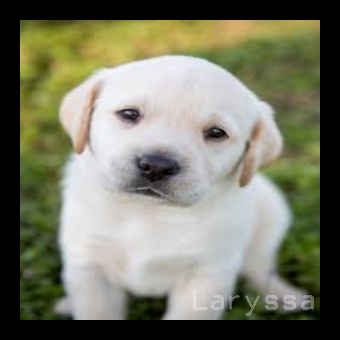
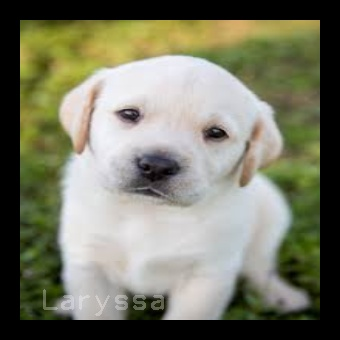
Ajuste marca dagua

diff --git a/slides.py b/slides.py
@@ -18,7 +18,7 @@ def watermark(img,file):
         height, width = img.shape[:2]
         alpha = 0.3
         namestamp = "Laryssa"
-        cv2.putText(overlay, namestamp.format(alpha), (width-150, height-30), cv2.FONT_HERSHEY_PLAIN, 2, (255,255,255), thickness=2)
+        cv2.putText(overlay, namestamp.format(alpha), (width-300, height-30), cv2.FONT_HERSHEY_PLAIN, 2, (255,255,255), thickness=2)
         cv2.addWeighted(overlay, alpha, output, 1 - alpha, 0, output)
         cv2.imwrite("watermark{}".format(file), output)
 
@@ -42,7 +42,7 @@ clean_folder()
 
 while True:
     format_images()
-    for file in glob.glob('watermarkimages/*.jpg'):    
+    for file in glob.glob('watermarkimages/*.jpg'):
         if key != 113:
             img = cv2.imread(file)
             if previous_img is not None:
